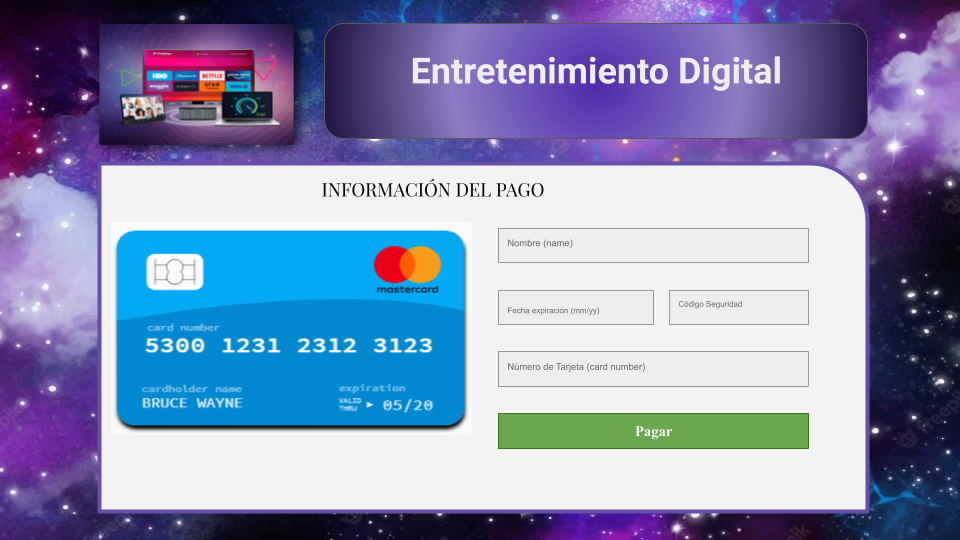
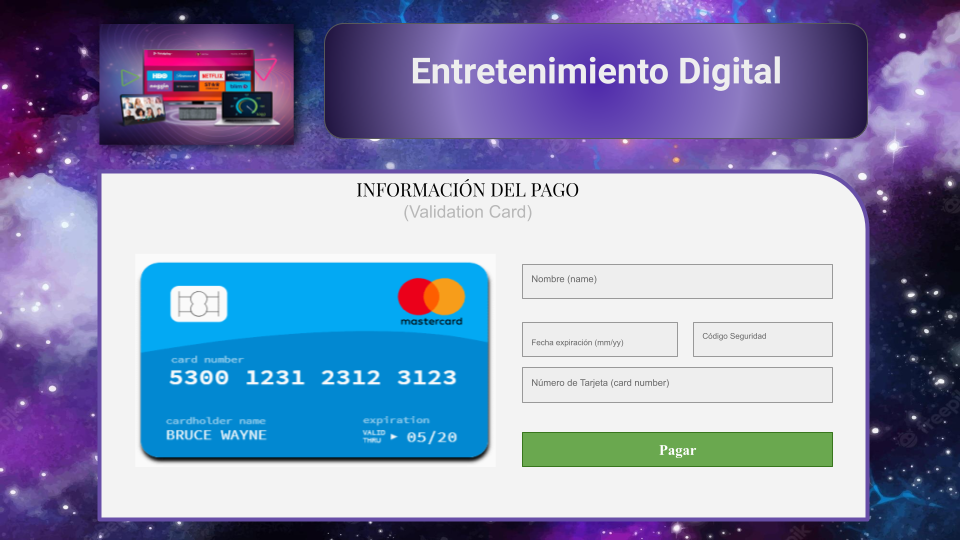
Subiendo Html p1

Changed region(s): [[0.0938, 0.2963, 0.875, 0.8889], [0.0938, 0.9185, 0.9062, 0.9778], [0.875, 0.3259, 0.9062, 0.4148]]

diff --git a/README.md b/README.md
@@ -17,9 +17,11 @@ Tras la pandemia el uso masivo de la digitalización aumento, en especial el de 
 
 ### Feedback
 
-Al realizar feedback de la primera idea, se generaron ´preguntas como si lxs personas si utilizan estos servicios seguidos o si recurren al pago de estos con medios electronicos, en este caso las tarjetas de credito, para lo cual informe que si se usan muy seguido ya que estois servicios estan en auge y son inovados constantemente, ademas en la actualidad el pago con medios electronicos es mucho mas usado.
+Al realizar feedback de la primera idea, se generaron preguntas como: ¿si lxs personas si utilizan estos servicios seguidos o si recurren al pago de estos con medios electronicos?, en este caso las tarjetas de credito, para lo cual informe que si se usan muy seguido ya que estos servicios estan en auge y son inovados constantemente, ademas en la actualidad el pago con medios electronicos es mucho mas usado.
 
-tras ver que si era posible mi idea principal era la venta de estos servicios de forma individual pero mi dupla o compañera me dijo que no es tan llamativo que quiza buscara poner un carrito de compras o buscar otra idea mas llamativa a lo cual le comente que lo pensaba manejar ofertando combos de servicios y seria asi mas atratctivo, por lo cual ella le gusto la idea.
+Tras ver que si era posible, mi idea principal era la venta de estos servicios de forma individual, pero mi dupla o compañera me dijo que no es tan llamativo que quiza buscara poner un carrito de compras o buscar otra idea mas llamativa a lo cual le comente que lo pensaba manejar ofertando combos de servicios y seria asi mas atratctivo, por lo cual ella le gusto la idea.
+
+A su vez al compartir el prototipo creado es slides, se generan propuestas para la modificacion del estilo y diseño modificando su tamaño y su  posicionamiento.
 
 ### Prototipo Final
 
